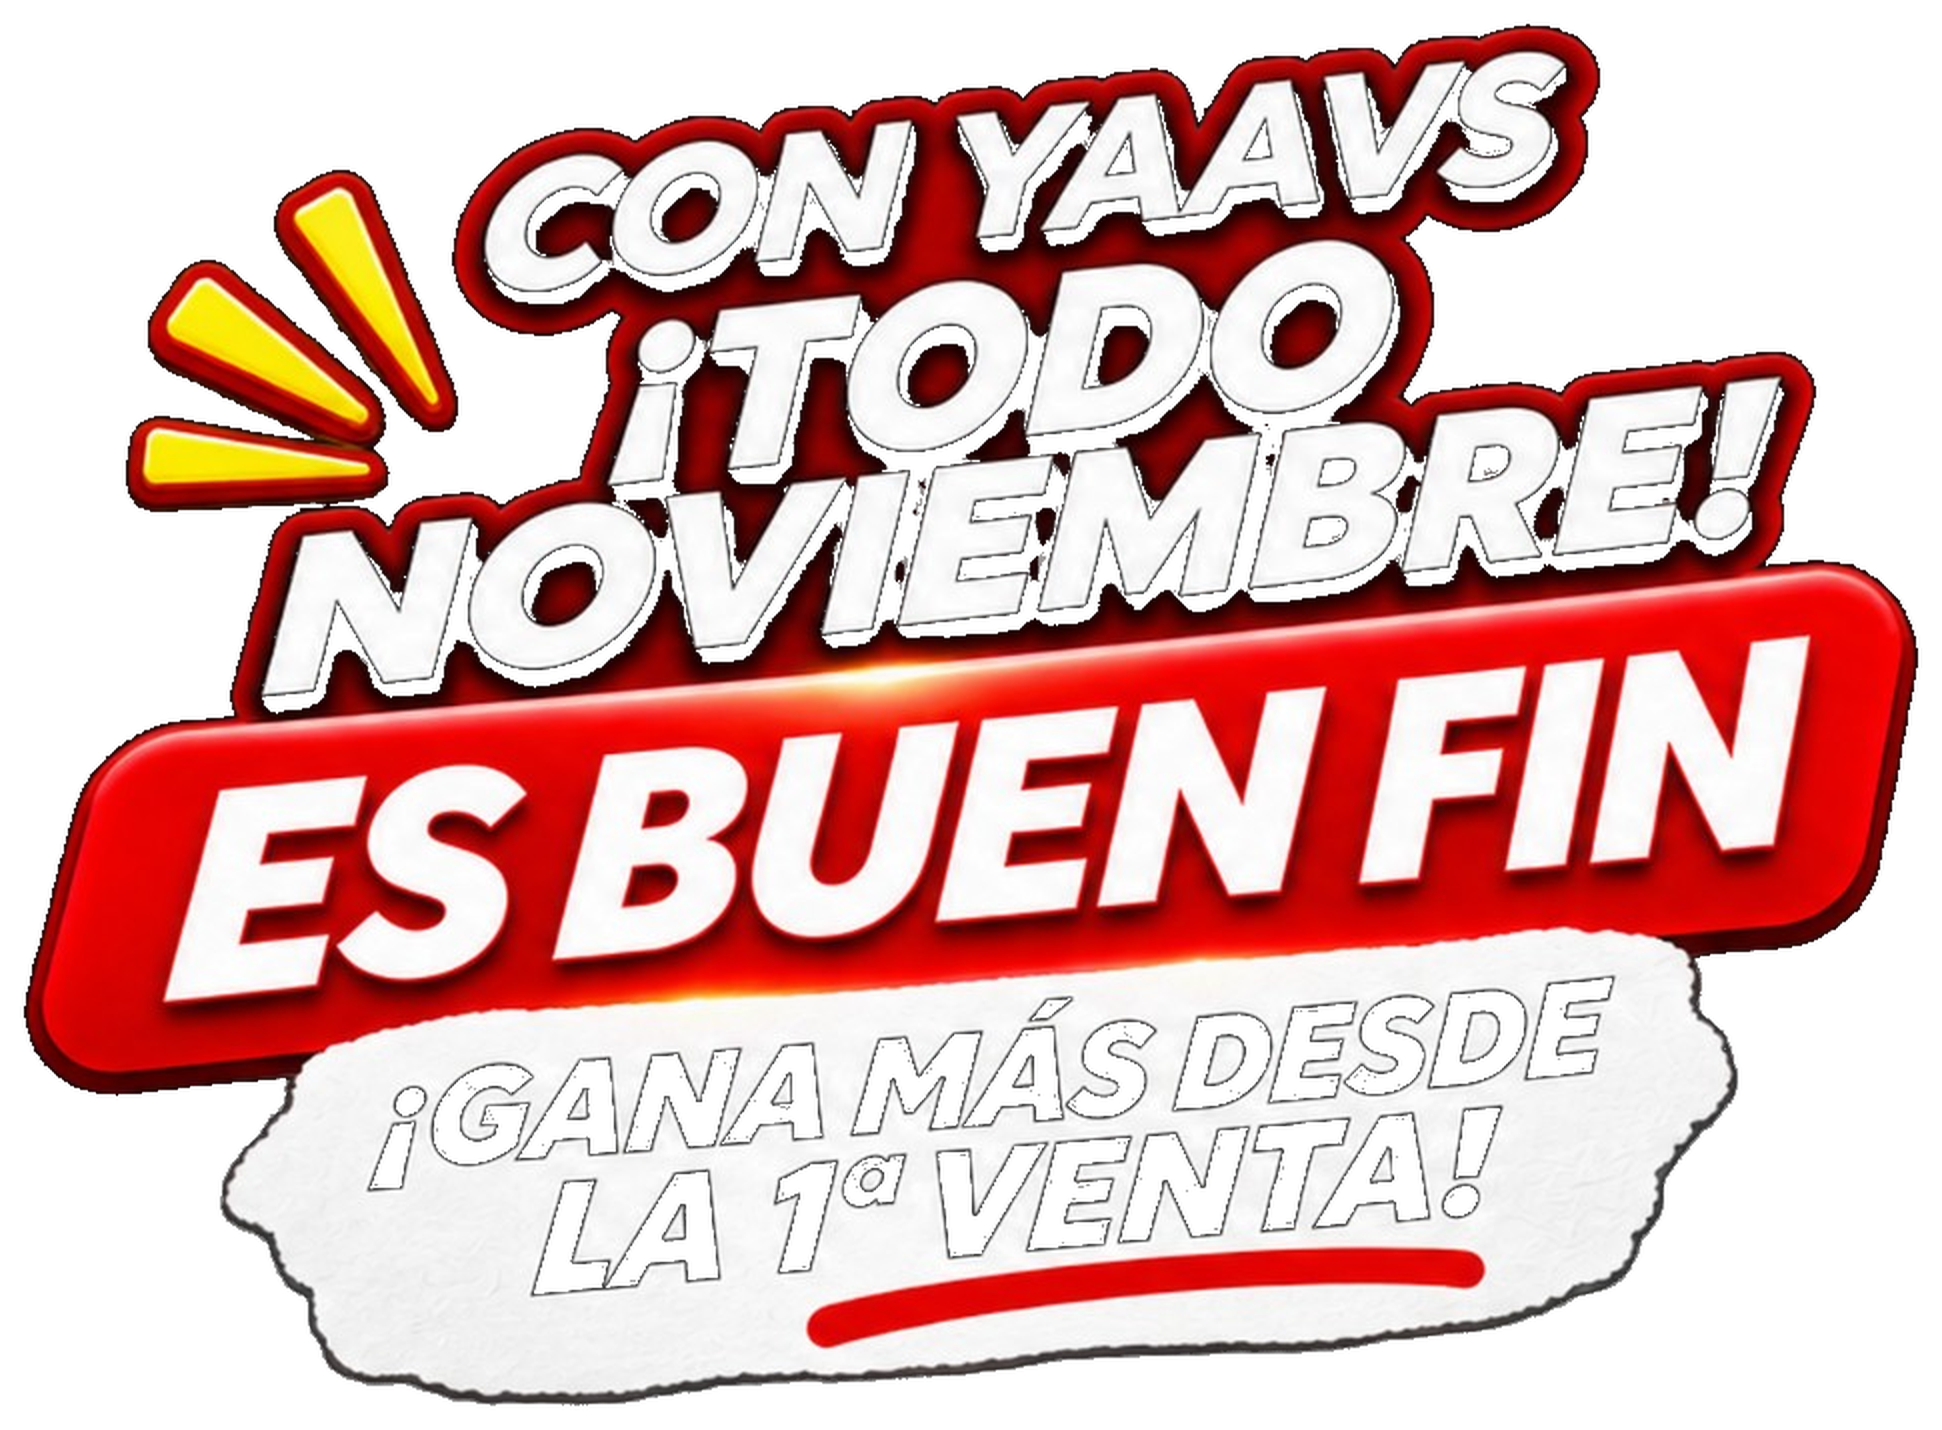
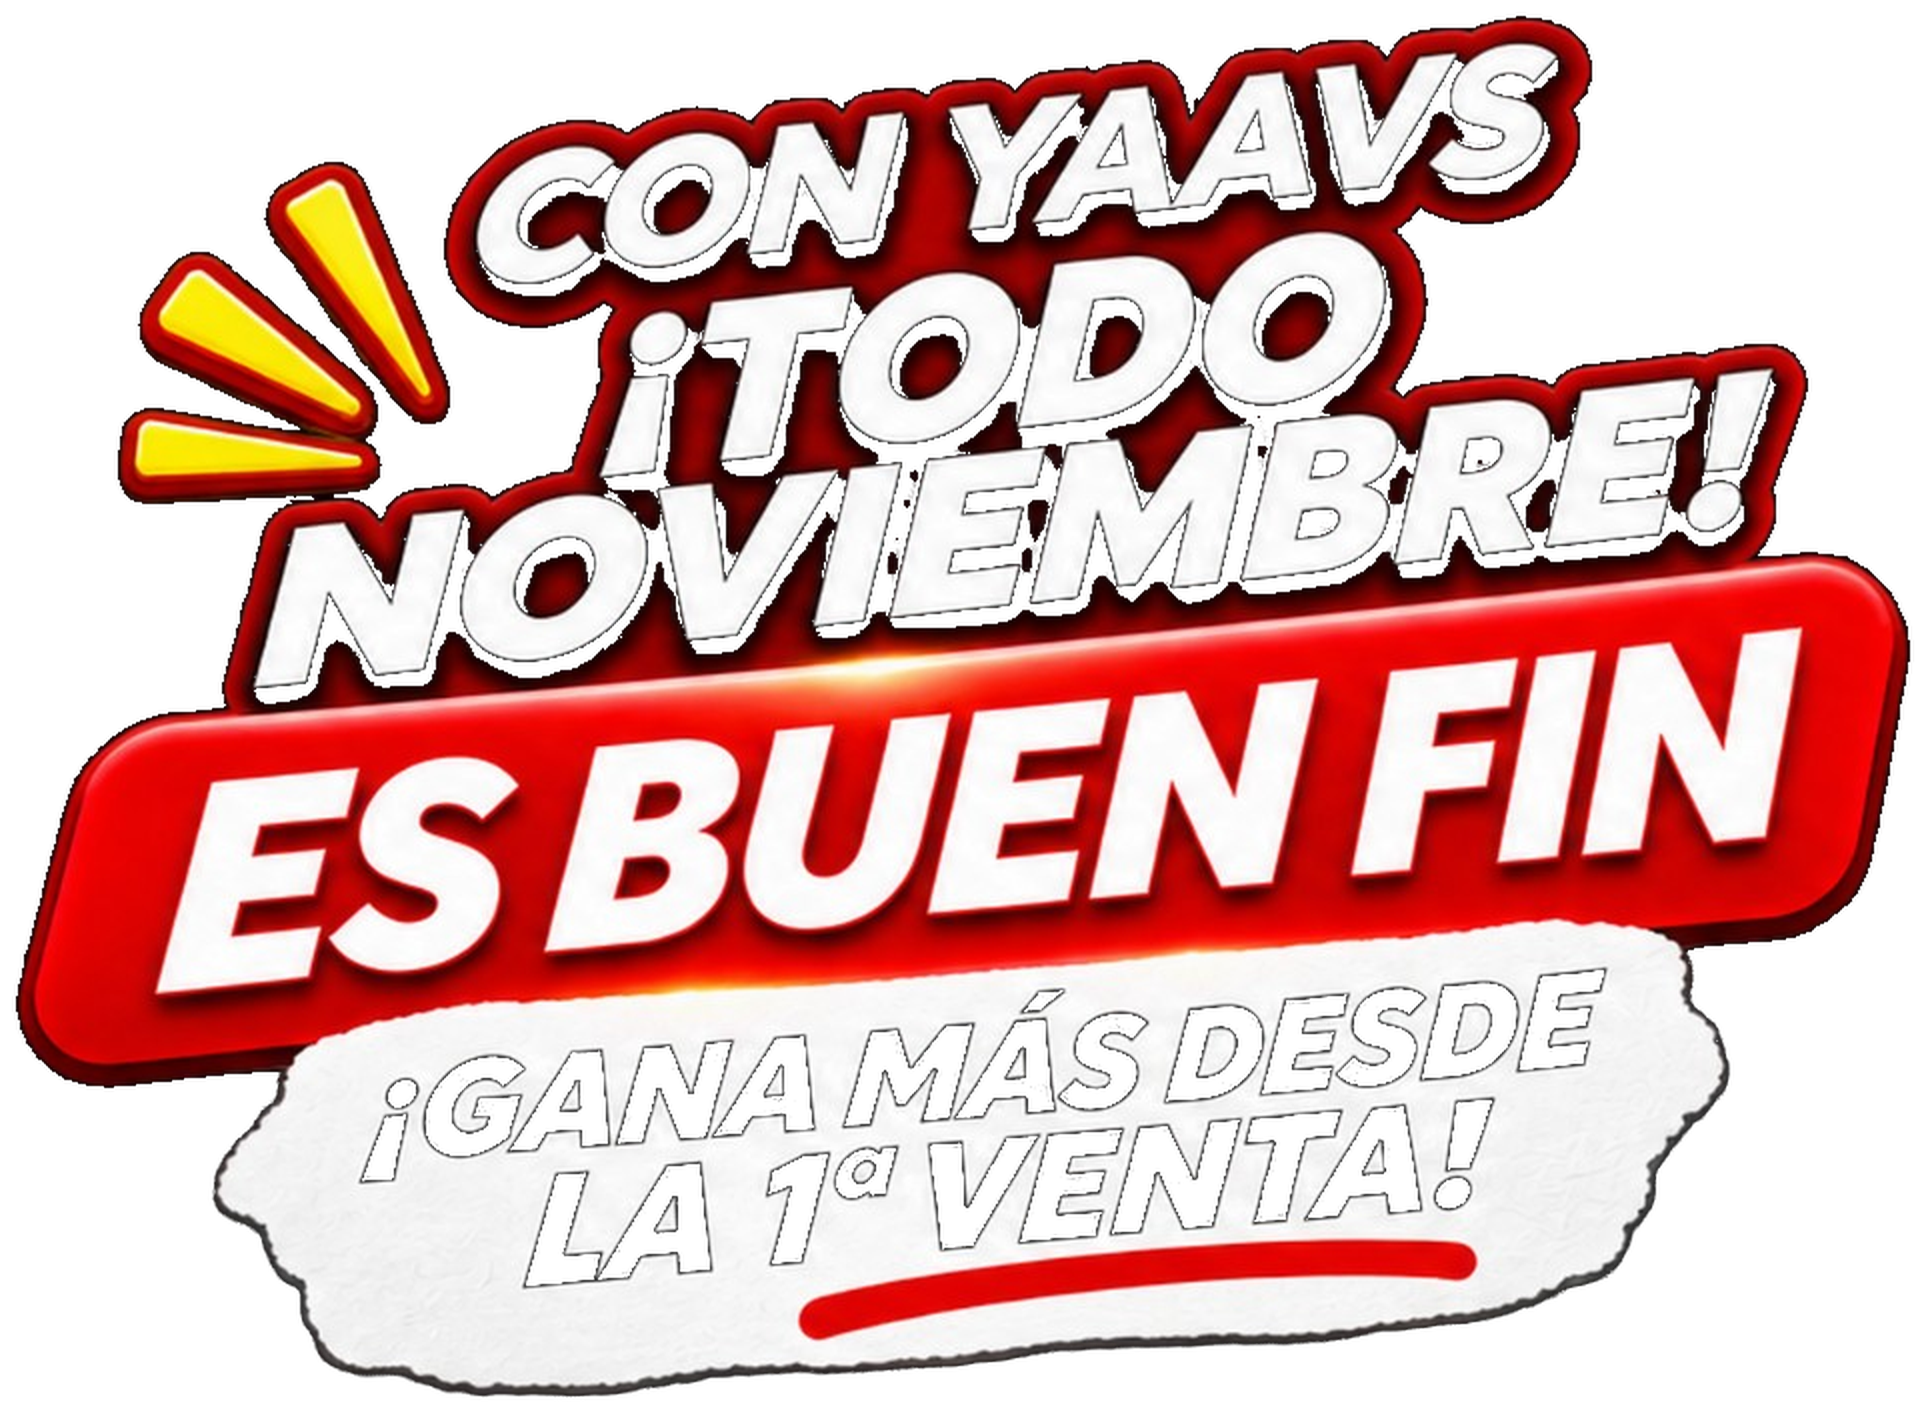
Refresh the Buen Fin hero titular with the updated campaign art.

diff --git a/buenfin/index.html b/buenfin/index.html
@@ -35,7 +35,7 @@
   <link rel="apple-touch-icon" href="favicon.png?v=1">
   <link href="https://fonts.googleapis.com/css2?family=Lilita+One&family=Montserrat:wght@400;600;700;800;900&family=Titan+One&display=swap" rel="stylesheet">
   <link rel="stylesheet" href="https://cdnjs.cloudflare.com/ajax/libs/font-awesome/6.4.0/css/all.min.css">
-  <link rel="stylesheet" href="vinculaciones.css?v=bf54">
+  <link rel="stylesheet" href="vinculaciones.css?v=bf55">
 </head>
 <body class="vinculaciones-landing comisiones-landing comisiones-viva bf-clean">
   <div class="cm-scene" aria-hidden="true">
@@ -109,9 +109,9 @@
         <span class="sr-only">Con Yaavs, todo noviembre es Buen Fin. Gana más desde la 1ª venta.</span>
         <img
           class="bf-hero-title__art"
-          src="titular-buen-fin.png?v=3"
-          width="971"
-          height="715"
+          src="titular-buen-fin.png?v=4"
+          width="1926"
+          height="1414"
           alt="Con Yaavs ¡todo noviembre! Es Buen Fin. ¡Gana más desde la 1ª venta!"
           decoding="async"
           fetchpriority="high"
